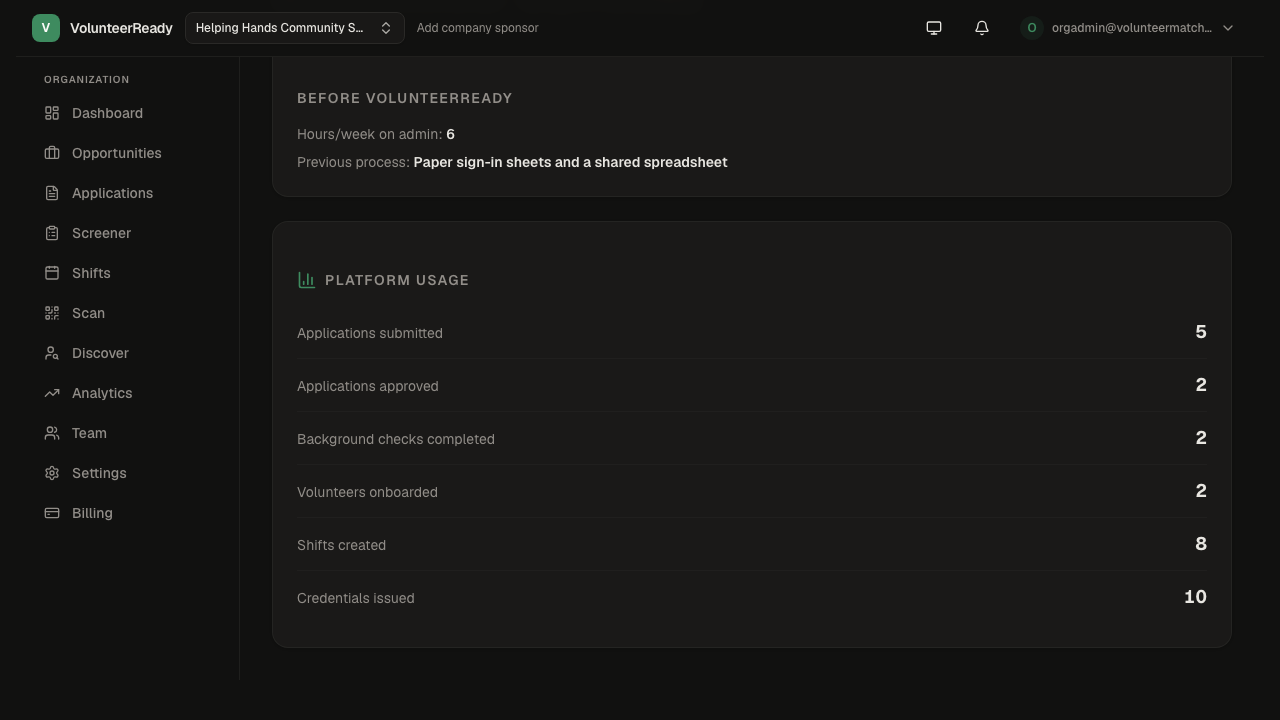
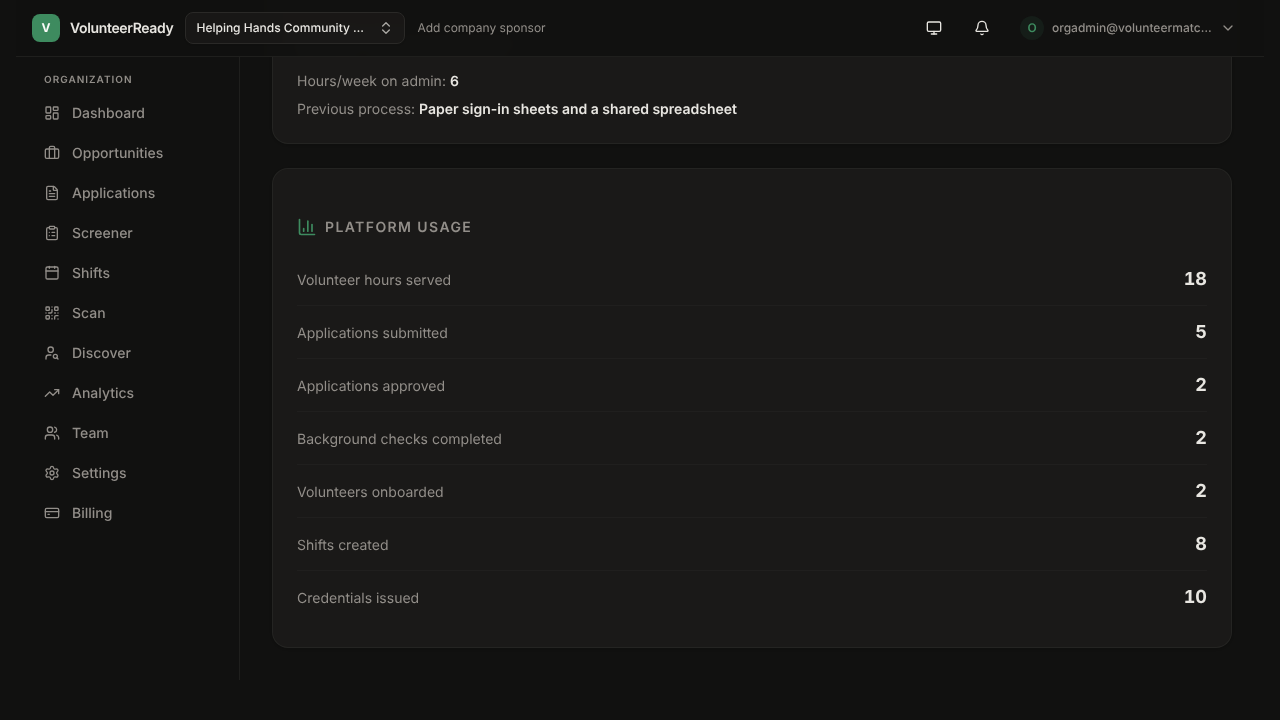
feat(impact-report): show lifetime volunteer hours served (#280)
The site now leads on funder reporting, and hours served is the first
number funders ask for, but the impact report only had counts. Hours were
only visible per volunteer in the Pro analytics dashboard.

- orgAnalyticsRepo.getAttendedVolunteerSeconds(orgId): lifetime sum of
  shift duration per ATTENDED signup, org-scoped, static raw SQL
- domain/shift.hoursFromSeconds(): one rounding rule shared with
  sumAttendedHours
- getImpactReport summary gains volunteerHours; the impact report shows
  "Volunteer hours served" as its first row; numbers are locale-formatted
- Integration tests (sum per attendee, ATTENDED only, org isolation) and
  unit tests for the rounding
- Recaptured the impact report marketing screenshots, reframed on
  "Background checks completed", and re-pinned the homepage markers

Claude-Session: https://claude.ai/code/session_01XZRe2UafDvqkv2X2EbboEF

diff --git a/src/server/repositories/orgAnalyticsRepo.integration.test.ts b/src/server/repositories/orgAnalyticsRepo.integration.test.ts
@@ -20,6 +20,7 @@ import type {
 import { prisma } from '@/server/repositories/prisma';
 import {
 	getApplicationFunnel,
+	getAttendedVolunteerSeconds,
 	getAvgFillRate,
 	getRetentionStats,
 	getTopVolunteers,
@@ -620,5 +621,76 @@ describe('getTopVolunteers', () => {
 
 		expect(result).toHaveLength(1);
 		expect(result[0].userId).toBe(u1.id);
+	});
+});
+
+// ---------------------------------------------------------------------------
+// getAttendedVolunteerSeconds
+// ---------------------------------------------------------------------------
+
+describe('getAttendedVolunteerSeconds', () => {
+	it('returns 0 for an org with no attended shifts', async () => {
+		const org = await seedOrg('hours-empty');
+
+		expect(await getAttendedVolunteerSeconds(org.id)).toBe(0);
+	});
+
+	it('sums shift duration once per attending volunteer', async () => {
+		const org = await seedOrg('hours-sum');
+		const u1 = await seedUser('hours-sum-u1');
+		const u2 = await seedUser('hours-sum-u2');
+
+		const threeHour = await seedShift(org.id, {
+			startTime: new Date('2026-01-10T09:00:00Z'),
+			endTime: new Date('2026-01-10T12:00:00Z'),
+		});
+		const ninetyMin = await seedShift(org.id, {
+			startTime: new Date('2026-01-11T09:00:00Z'),
+			endTime: new Date('2026-01-11T10:30:00Z'),
+		});
+
+		// Two volunteers on the 3h shift, one on the 90m shift: 7.5h.
+		await seedSignup(threeHour.id, u1.id, { status: 'ATTENDED' });
+		await seedSignup(threeHour.id, u2.id, { status: 'ATTENDED' });
+		await seedSignup(ninetyMin.id, u1.id, { status: 'ATTENDED' });
+
+		expect(await getAttendedVolunteerSeconds(org.id)).toBe(7.5 * 3600);
+	});
+
+	it('ignores signups that were not ATTENDED', async () => {
+		const org = await seedOrg('hours-status');
+		const u1 = await seedUser('hours-status-u1');
+		const u2 = await seedUser('hours-status-u2');
+		const u3 = await seedUser('hours-status-u3');
+		const shift = await seedShift(org.id, {
+			startTime: new Date('2026-01-10T09:00:00Z'),
+			endTime: new Date('2026-01-10T11:00:00Z'),
+		});
+
+		await seedSignup(shift.id, u1.id, { status: 'ATTENDED' });
+		await seedSignup(shift.id, u2.id, { status: 'CONFIRMED' });
+		await seedSignup(shift.id, u3.id, { status: 'NO_SHOW' });
+
+		expect(await getAttendedVolunteerSeconds(org.id)).toBe(2 * 3600);
+	});
+
+	it('isolates hours to the specified org', async () => {
+		const org1 = await seedOrg('hours-iso-1');
+		const org2 = await seedOrg('hours-iso-2');
+		const user = await seedUser('hours-iso-u1');
+		const shift1 = await seedShift(org1.id, {
+			startTime: new Date('2026-01-10T09:00:00Z'),
+			endTime: new Date('2026-01-10T11:00:00Z'),
+		});
+		const shift2 = await seedShift(org2.id, {
+			startTime: new Date('2026-01-10T13:00:00Z'),
+			endTime: new Date('2026-01-10T17:00:00Z'),
+		});
+
+		await seedSignup(shift1.id, user.id, { status: 'ATTENDED' });
+		await seedSignup(shift2.id, user.id, { status: 'ATTENDED' });
+
+		expect(await getAttendedVolunteerSeconds(org1.id)).toBe(2 * 3600);
+		expect(await getAttendedVolunteerSeconds(org2.id)).toBe(4 * 3600);
 	});
 });

diff --git a/src/server/domain/__tests__/shift.test.ts b/src/server/domain/__tests__/shift.test.ts
@@ -2,6 +2,7 @@ import { describe, expect, it } from 'vitest';
 
 import {
 	computeShiftCapacity,
+	hoursFromSeconds,
 	type ShiftData,
 	type SignupRecord,
 	shiftDurationHours,
@@ -437,5 +438,33 @@ describe('sumAttendedHours', () => {
 			twentyMinutes.map((r) => shiftDurationHours(r.startTime, r.endTime)),
 		).toEqual([0.3, 0.3, 0.3]);
 		expect(sumAttendedHours(twentyMinutes)).toBe(1);
+	});
+});
+
+describe('hoursFromSeconds', () => {
+	it('returns 0 for no attended time', () => {
+		expect(hoursFromSeconds(0)).toBe(0);
+	});
+
+	it('converts seconds to hours, rounded to one decimal', () => {
+		expect(hoursFromSeconds(3 * 3600)).toBe(3);
+		expect(hoursFromSeconds(90 * 60)).toBe(1.5);
+		// 1h 20m = 1.333… → 1.3
+		expect(hoursFromSeconds(80 * 60)).toBe(1.3);
+	});
+
+	it('rounds once from the total, matching sumAttendedHours', () => {
+		// Three 20-minute shifts: 1.0h in total, though each rounds to 0.3h.
+		const shifts = [0, 1, 2].map((d) => ({
+			startTime: new Date(Date.UTC(2026, 0, 1 + d, 9, 0)),
+			endTime: new Date(Date.UTC(2026, 0, 1 + d, 9, 20)),
+		}));
+		expect(hoursFromSeconds(3 * 20 * 60)).toBe(sumAttendedHours(shifts));
+		expect(hoursFromSeconds(3 * 20 * 60)).toBe(1);
+	});
+
+	it('treats negative or non-finite input as no time', () => {
+		expect(hoursFromSeconds(-60)).toBe(0);
+		expect(hoursFromSeconds(Number.NaN)).toBe(0);
 	});
 });

diff --git a/src/app/(public)/page.tsx b/src/app/(public)/page.tsx
@@ -57,17 +57,17 @@ interface Pillar {
 const pillars: Pillar[] = [
 	{
 		heading: 'Funder-ready reports',
-		body: 'Applications, approvals, screenings, shifts, and credentials are counted as they happen. When a funder, insurer, or auditor asks, the numbers already exist — no spreadsheet archaeology the week a report is due.',
+		body: 'Volunteer hours, applications, background checks, shifts, and credentials are counted as they happen. When a funder, insurer, or auditor asks, the numbers already exist — no spreadsheet archaeology the week a report is due.',
 		screenshot: {
 			src: MARKETING_SCREENSHOTS.impactReport.src,
 			darkSrc: MARKETING_SCREENSHOTS.impactReport.darkSrc,
-			alt: 'VolunteerReady impact report showing applications, approvals, background checks, volunteers onboarded, shifts, and credentials counted automatically',
+			alt: 'VolunteerReady impact report showing volunteer hours served, applications, approvals, background checks, volunteers onboarded, shifts, and credentials counted automatically',
 			annotations: [
 				{
-					x: 62,
-					y: 18.5,
+					x: 58.6,
+					y: 38.9,
 					label:
-						'Your starting point is recorded at onboarding, so the report shows before and after.',
+						'Volunteer hours roll up from shift check-ins — the first number most funders ask for.',
 				},
 				{
 					x: 58.6,

diff --git a/src/server/services/screener-queries.ts b/src/server/services/screener-queries.ts
@@ -1,7 +1,9 @@
 import type { ApplicationStatus } from '@/prisma/generated/client';
+import { hoursFromSeconds } from '@/server/domain/shift';
 import { sendEmail } from '@/server/lib/email';
 import { writeAuditLogTx } from '@/server/repositories/auditRepo';
 import { countOpportunitiesByStatus } from '@/server/repositories/opportunityRepo';
+import { getAttendedVolunteerSeconds } from '@/server/repositories/orgAnalyticsRepo';
 import { countOrgVolunteers } from '@/server/repositories/orgVolunteerRepo';
 import { prisma } from '@/server/repositories/prisma';
 import { getPublicFormByOrgSlug } from '@/server/repositories/publicApplyRepo';
@@ -508,6 +510,7 @@ async function getOrgLifetimeSummary(orgId: string) {
 		credentialsIssued,
 		applicationsSubmitted,
 		applicationsApproved,
+		attendedSeconds,
 	] = await Promise.all([
 		prisma.volunteerApplication.count({
 			where: { orgId, status: 'APPROVED' },
@@ -523,6 +526,7 @@ async function getOrgLifetimeSummary(orgId: string) {
 		prisma.volunteerApplication.count({
 			where: { orgId, status: 'APPROVED' },
 		}),
+		getAttendedVolunteerSeconds(orgId),
 	]);
 
 	return {
@@ -532,5 +536,6 @@ async function getOrgLifetimeSummary(orgId: string) {
 		credentialsIssued,
 		applicationsSubmitted,
 		applicationsApproved,
+		volunteerHours: hoursFromSeconds(attendedSeconds),
 	};
 }

diff --git a/src/server/repositories/orgAnalyticsRepo.ts b/src/server/repositories/orgAnalyticsRepo.ts
@@ -223,6 +223,33 @@ export async function getTopVolunteers(
 }
 
 /**
+ * Lifetime volunteer time for this org, in SECONDS: the summed duration of
+ * every shift with an ATTENDED signup, counted once per attending volunteer
+ * (a 3-hour shift with four attendees is 12 volunteer-hours).
+ *
+ * No date window on purpose — the impact report is a lifetime figure — and no
+ * filter on the shift's own status: attendance is what makes the time count,
+ * the same predicate `getTopVolunteers` and `attendedShiftWhere()` use.
+ *
+ * Seconds, not hours, so rounding happens once in the domain
+ * (`hoursFromSeconds`) rather than here.
+ */
+export async function getAttendedVolunteerSeconds(
+	orgId: string,
+): Promise<number> {
+	const rows = await prisma.$queryRaw<{ total_seconds: number | null }[]>`
+		SELECT
+			SUM(EXTRACT(EPOCH FROM (sh."endTime" - sh."startTime")))::float8
+				AS total_seconds
+		FROM "ShiftSignup" ss
+		JOIN "Shift" sh ON sh.id = ss."shiftId"
+		WHERE sh."orgId" = ${orgId}
+		  AND ss.status = 'ATTENDED'
+	`;
+	return Number(rows[0]?.total_seconds ?? 0);
+}
+
+/**
  * Check-in analytics: method breakdown (QR vs manual vs geo) and
  * busiest check-in hours. Uses AuditLog metadata to determine method.
  * Pre-QR entries default to 'manual' via COALESCE.

diff --git a/src/server/domain/shift.ts b/src/server/domain/shift.ts
@@ -314,6 +314,19 @@ export function sumAttendedHours(
 	return roundHours(totalMs / MS_PER_HOUR);
 }
 
+/**
+ * Total attended hours from a duration summed in the database, in seconds.
+ *
+ * For aggregates too large to pull row by row (an org's lifetime total), the
+ * repository sums `endTime - startTime` in SQL and hands back seconds; this
+ * applies the same single rounding `sumAttendedHours` does, so the impact
+ * report and the per-volunteer totals round by one rule.
+ */
+export function hoursFromSeconds(totalSeconds: number): number {
+	if (!Number.isFinite(totalSeconds) || totalSeconds <= 0) return 0;
+	return roundHours(totalSeconds / 3600);
+}
+
 // ---- Shift Templates ------------------------------------------------------
 
 export const DAY_OF_WEEK_LABELS = [

diff --git a/src/app/(app)/app/impact-report/page.tsx b/src/app/(app)/app/impact-report/page.tsx
@@ -20,7 +20,7 @@ function StatRow({
 			<span className="text-sm text-muted-foreground">{label}</span>
 			<div className="text-right">
 				<span className="text-lg font-bold tabular-nums text-foreground">
-					{value}
+					{value.toLocaleString('en-US')}
 				</span>
 				{baseline != null && baseline > 0 && (
 					<span className="ml-2 text-xs text-muted-foreground">
@@ -138,6 +138,11 @@ export default function ImpactReportPage() {
 						</h3>
 					</div>
 
+					{/* First on purpose: hours served is the figure funders ask for. */}
+					<StatRow
+						label="Volunteer hours served"
+						value={data.summary.volunteerHours}
+					/>
 					<StatRow
 						label="Applications submitted"
 						value={data.summary.applicationsSubmitted}

diff --git a/e2e/capture-scenarios.ts b/e2e/capture-scenarios.ts
@@ -129,10 +129,10 @@ export const CAPTURE_SCENARIOS: CaptureScenario[] = [
 		actor: CAPTURE_ACTORS.orgAdmin,
 		path: '/app/impact-report',
 		// Also the framing anchor (capture.spec.ts centers it): centering a
-		// mid-list row keeps the whole Platform Usage card in frame now that
-		// the seeded baseline card sits above it. The homepage pins its
-		// annotation markers to this composition.
-		waitForText: 'Shifts created',
+		// mid-list row keeps the whole Platform Usage card — volunteer hours
+		// on top — in frame below the seeded baseline card. The homepage pins
+		// its annotation markers to this composition.
+		waitForText: 'Background checks completed',
 		variants: ['light', 'dark'],
 	},
 	{
